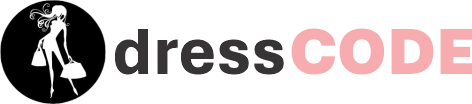
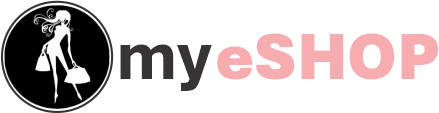
update page settings

diff --git a/frontend/src/Components/FooterComponent.jsx b/frontend/src/Components/FooterComponent.jsx
@@ -6,7 +6,7 @@ export default function FooterComponent() {
   const date = new Date();
 
   return (
-    <div className="border-t-4 border-slate-500 rounded-lg">
+    <div className="border-t-2 border-solid border-l-transparent border-r-transparent border-b-transparent border-gray-300">
       <div className="px-4 flex flex-col sm:grid grid-cols-[3fr_1fr_1fr] gap-14 my-10 text-sm">
         <div>
           <img src={assets.nav_img} className="w-36 sm:w-44 mb-2" alt="" />
@@ -21,26 +21,27 @@ export default function FooterComponent() {
         <div>
           <p className="text-xl font-medium mb-2">COMPANY</p>
           <ul className="flex flex-col gap-1 text-gray-600">
-            <li>Home</li>
-            <li>About Us</li>
-            <li>Delivery</li>
-            <li>Privacy Policy</li>
+            <Link to="/">Home</Link>
+            <Link to="/about">About Us</Link>
+            <Link to="/delivery">Delivery</Link>
+            <Link to="/privacy-policy">Privacy Policy</Link>
           </ul>
         </div>
 
         <div>
           <p className="text-xl font-medium mb-2">GET IN TOUCH</p>
           <ul className="flex flex-col gap-1 text-gray-600">
-            <li>+2348154230654</li>
-            <li>ameneterh@gmail.com</li>
-            <li>WhatsApp</li>
-            <li>Twitter</li>
+            <Link to="mailto:ameneterh@gmail.com">ameneterh@gmail.com</Link>
+            <Link to="https://wa.me/2348154230654" target="_blank">
+              08154230654
+            </Link>
+            <Link to="tel:+2348154230654">08154230654</Link>
           </ul>
         </div>
       </div>
       <div>
         <hr />
-        <p className="py-5 text-sm text-center flex items-center justify-center">
+        <p className="py-5 text-sm text-center">
           Copyright {date.getFullYear()}{" "}
           <Link
             to="https://ameneterh-portfolio.onrender.com"
@@ -49,7 +50,7 @@ export default function FooterComponent() {
           >
             @Amene Ter'Hemen
           </Link>{" "}
-          - All Rights Reserved.
+          <span className="block sm:inline-block">- All Rights Reserved.</span>
         </p>
       </div>
     </div>

diff --git a/frontend/src/Pages/AboutPage.jsx b/frontend/src/Pages/AboutPage.jsx
@@ -7,7 +7,7 @@ import { assets } from "../assets/assets";
 export default function AboutPage() {
   return (
     <MainLayout>
-      <section className="flex flex-col max-w-7xl mx-auto min-h-[60svh]">
+      <section className="flex flex-col max-w-7xl mx-auto min-h-[60svh] mt-8 sm:mt-0">
         <div className="text-2xl text-center">
           <TitleText text1={"about"} text2={"us"} />
         </div>
@@ -57,7 +57,7 @@ export default function AboutPage() {
         </div>
 
         <div className="flex flex-col md:flex-row text-sm mb-20">
-          <div className="border border-gray-700 px-10 md:px-16 py-8 sm:py20 flex flex-col gap-5">
+          <div className="border border-gray-700 border-solid px-10 md:px-16 py-8 sm:py20 flex flex-col gap-5">
             <b>Convenience:</b>
             <p className="text-gray-600">
               Lorem ipsum dolor sit amet consectetur adipisicing elit. Quae
@@ -66,7 +66,7 @@ export default function AboutPage() {
               accusamus iusto est doloribus numquam.
             </p>
           </div>
-          <div className="border px-10 md:px-16 py-8 sm:py20 flex flex-col gap-5">
+          <div className="border border-gray-700 border-solid px-10 md:px-16 py-8 sm:py20 flex flex-col gap-5">
             <b>With you 24/7:</b>
             <p className="text-gray-600">
               Lorem ipsum dolor sit amet consectetur adipisicing elit. Quae
@@ -75,7 +75,7 @@ export default function AboutPage() {
               accusamus iusto est doloribus numquam.
             </p>
           </div>
-          <div className="border px-10 md:px-16 py-8 sm:py20 flex flex-col gap-5">
+          <div className="border border-gray-700 border-solid px-10 md:px-16 py-8 sm:py20 flex flex-col gap-5">
             <b>Exceptional Satisfaction:</b>
             <p className="text-gray-600">
               Lorem ipsum dolor sit amet consectetur adipisicing elit. Quae

diff --git a/frontend/src/Components/HeroComponent.jsx b/frontend/src/Components/HeroComponent.jsx
@@ -8,7 +8,7 @@ export default function HeroComponent() {
   const navigate = useNavigate();
 
   return (
-    <div className="flex flex-col sm:flex-row">
+    <div className="flex flex-col pt-10 sm:pt-0 sm:flex-row">
       {/* hero left side */}
       <div className="w-full sm:w-2/3 flex items-center justify-center pb-10 sm:py-0">
         <div className="text-[#414141]">
@@ -25,7 +25,7 @@ export default function HeroComponent() {
 
           <p className="my-2 text-xl text-center capitalize">
             We picked every item with care just for you,{" "}
-            <span className="block">
+            <span className="sm:block">
               <b>you must try</b> at least once
             </span>
           </p>

diff --git a/frontend/src/Pages/sellerProfile/UserProfilePage.jsx b/frontend/src/Pages/sellerProfile/UserProfilePage.jsx
@@ -22,7 +22,7 @@ export default function UserProfilePage() {
       </div>
 
       {/* display user details */}
-      <div className="flex items-start justify-between mt-8 border-t border-t-gray-400">
+      <div className="flex flex-col sm:flex-row items-start justify-between mt-8 border-t border-t-gray-400">
         <img
           src={user.avatar}
           alt={user.fullname}

diff --git a/frontend/src/Pages/ContactPage.jsx b/frontend/src/Pages/ContactPage.jsx
@@ -14,7 +14,7 @@ import { assets } from "../assets/assets";
 export default function ContactPage() {
   return (
     <MainLayout>
-      <section className="max-w-7xl mx-auto min-h-[60svh]">
+      <section className="max-w-7xl mx-auto min-h-[60svh] mt-8 sm:mt-0">
         <div className="text-center text-2xl">
           <TitleText text1={"contact"} text2={"us"} />
         </div>

diff --git a/frontend/index.html b/frontend/index.html
@@ -4,7 +4,7 @@
     <meta charset="UTF-8" />
     <link rel="icon" type="image/svg+xml" href="/site_logo.png" />
     <meta name="viewport" content="width=device-width, initial-scale=1.0" />
-    <title>dressCODE</title>
+    <title>myeSHOP</title>
   </head>
   <body>
     <div id="root"></div>

diff --git a/frontend/src/Pages/CollectionsPage.jsx b/frontend/src/Pages/CollectionsPage.jsx
@@ -52,7 +52,7 @@ export default function CollectionsPage() {
 
   return (
     <MainLayout>
-      <div className="flex gap-5">
+      <div className="flex gap-5 mt-8 sm:mt-0">
         {showFilters && (
           <ProductFiltersComponent
             showFilters={showFilters}
